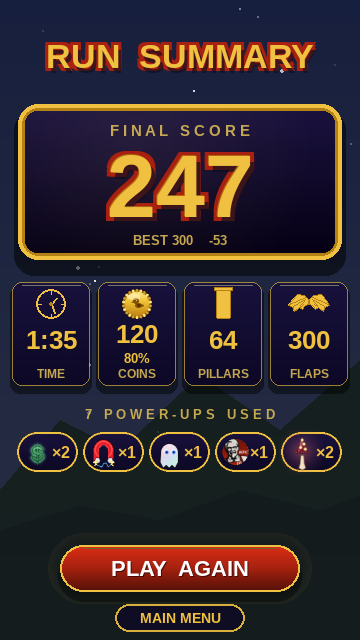
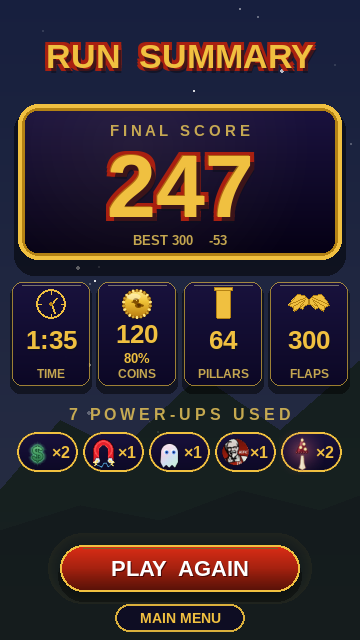
summary: enlarge the POWER-UPS USED caption (13 -> 16, bold)
Bumps the power-ups caption font for legibility; rest of the run-summary
screen unchanged.

https://claude.ai/code/session_012LFHm9hpzGqW7guxvydUjh

Changed region(s): [[0.2444, 0.625, 0.825, 0.6562], [0.1833, 0.625, 0.2139, 0.6562]]

diff --git a/game/hud.py b/game/hud.py
@@ -1630,7 +1630,7 @@ class HUD:
             )
             cap_y = 414
             total_pu = sum(c for _, c in pu)
-            cap = _font(13, True).render(
+            cap = _font(16, True).render(
                 f"{total_pu}   P O W E R - U P S   U S E D",
                 True, _GOLD_MUTED)
             cap.set_alpha(230)
